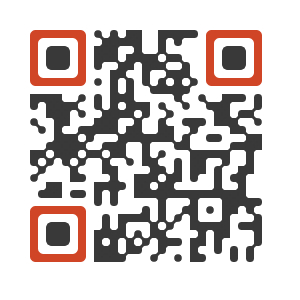
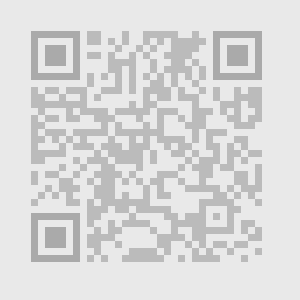
change qr code position

diff --git a/css/style.css b/css/style.css
@@ -1742,6 +1742,8 @@ footer { text-align: left; }
 footer #author { font-size: 10px; color: #cccccc; }
 footer #author a { color: #999999; }
 
+@media only screen and (min-width: 720px) { .footer { background: url("../img/qr-xwang8.png") no-repeat right bottom; background-size: contain; } }
+
 .splash { background: #4a4d50 url("../img/SJTU-white@2x.png") no-repeat 16% 16px; background-size: 160px; text-align: right; padding: 40px 0; min-height: 185px; }
 @media only screen and (max-width: 767px) { .splash { display: none !important; } }
 .splash h1, .splash h5 { color: #ffffff; font-weight: 300; }
@@ -1752,12 +1754,10 @@ footer #author a { color: #999999; }
 
 .wrapper { padding: 75px 20px 70px 20px; }
 
-.wrapper.shaded { background-color: #E9E9E9 !important; background-size: cover; }
+.wrapper.shaded { background-color: #E9E9E9 !important; }
 
 #wxb_intro { position: relative; text-align: center; }
-@media only screen and (min-width: 720px) { #wxb_intro { background: url("http://iwct.sjtu.edu.cn/Personal/xwang8/index_files/xinbing_5.jpg") no-repeat right bottom; background-size: contain; }
-  #wxb_intro:hover figure[class="qr"] { opacity: 1; width: 300px; height: 300px; } }
-#wxb_intro .qr { left: -20%; top: 30px; }
+@media only screen and (min-width: 720px) { #wxb_intro { background: url("http://iwct.sjtu.edu.cn/Personal/xwang8/index_files/xinbing_5.jpg") no-repeat right bottom; background-size: contain; } }
 #wxb_intro h1, #wxb_intro h2, #wxb_intro h3, #wxb_intro h4, #wxb_intro h5, #wxb_intro h6 { font-weight: 300; }
 #wxb_intro h2 { padding-bottom: .5rem; }
 #wxb_intro dl { margin-bottom: 1rem; }

diff --git a/sass/_custom.scss b/sass/_custom.scss
@@ -39,6 +39,13 @@ footer {
   }
 }
 
+.footer {
+  @include respond("min-width: 720px") {
+    background: url("../img/qr-xwang8.png") no-repeat right bottom;
+    background-size: contain;
+  }
+}
+
 .splash {
   @include hidden(all-phones);
 
@@ -69,7 +76,6 @@ footer {
 
 .wrapper.shaded {
   background-color: #E9E9E9 !important;
-  background-size: cover;
 }
 
 #wxb_intro {
@@ -78,16 +84,6 @@ footer {
   @include respond("min-width: 720px") {
     background: url("http://iwct.sjtu.edu.cn/Personal/xwang8/index_files/xinbing_5.jpg") no-repeat right bottom;
     background-size: contain;
-    &:hover figure[class="qr"] {
-      opacity: 1;
-      width: 300px;
-      height: 300px;
-    }
-  }
-
-  .qr {
-    left: -20%;
-    top: 30px;
   }
 
   text-align: center;

diff --git a/index.html b/index.html
@@ -95,7 +95,6 @@
   </div>
   <div class="wrapper">
     <section id="wxb_intro" class="row">
-      <figure class="qr"><img src="img/qr-xwang8.png"/></figure>
       <article class="eight columns">
         <h2>Xinbing Wang 王新兵</h2>
         <dl>
